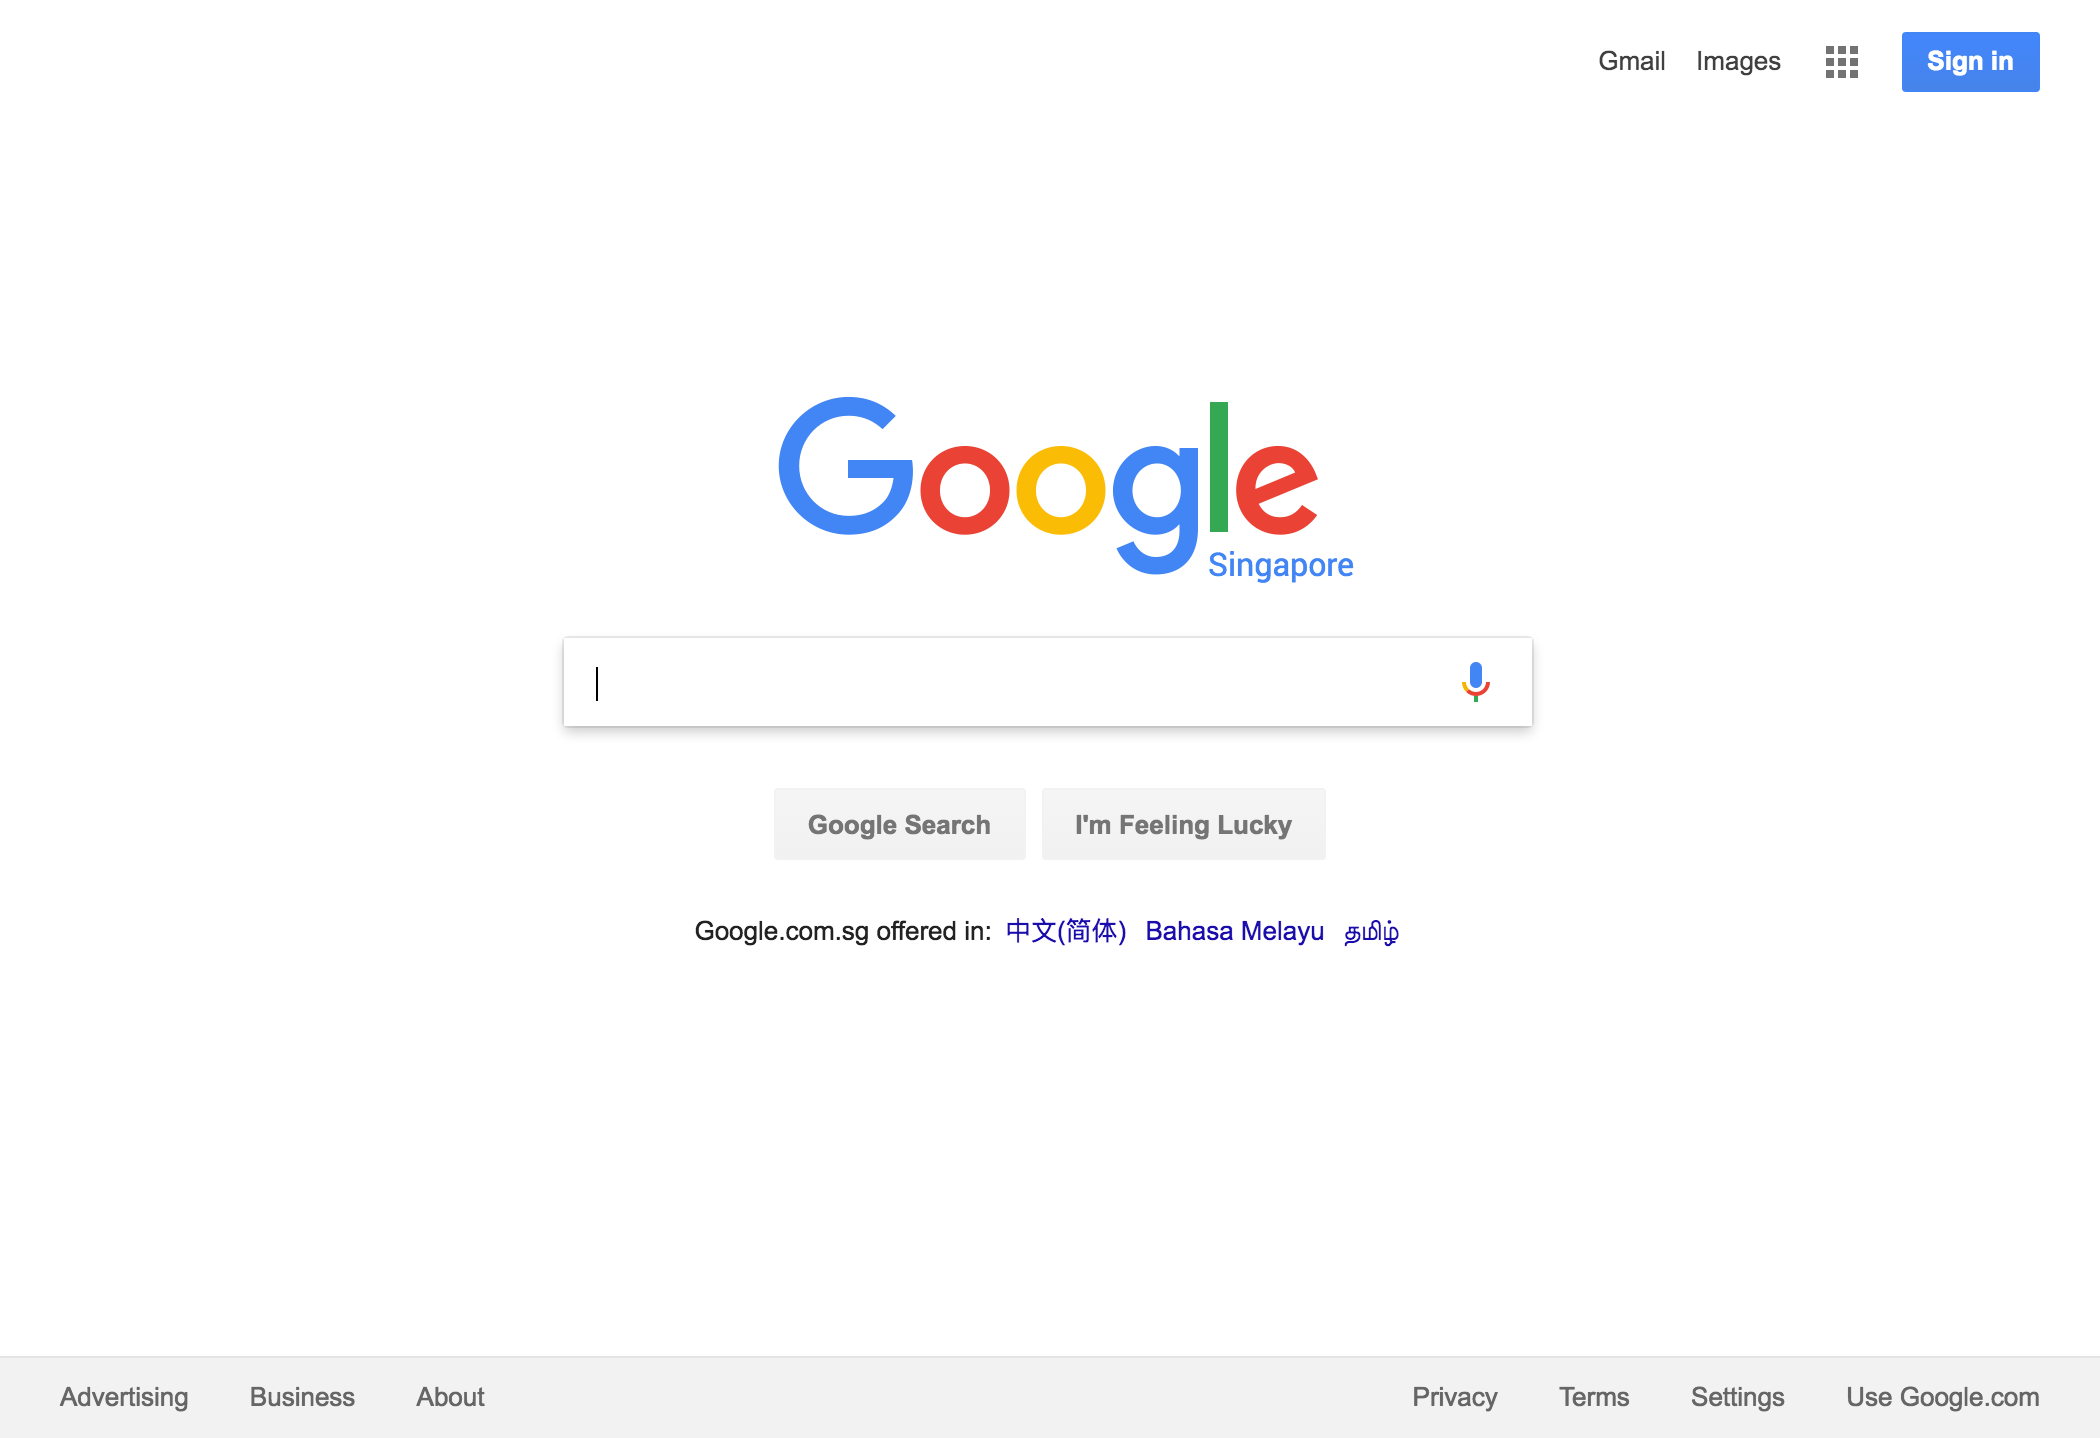
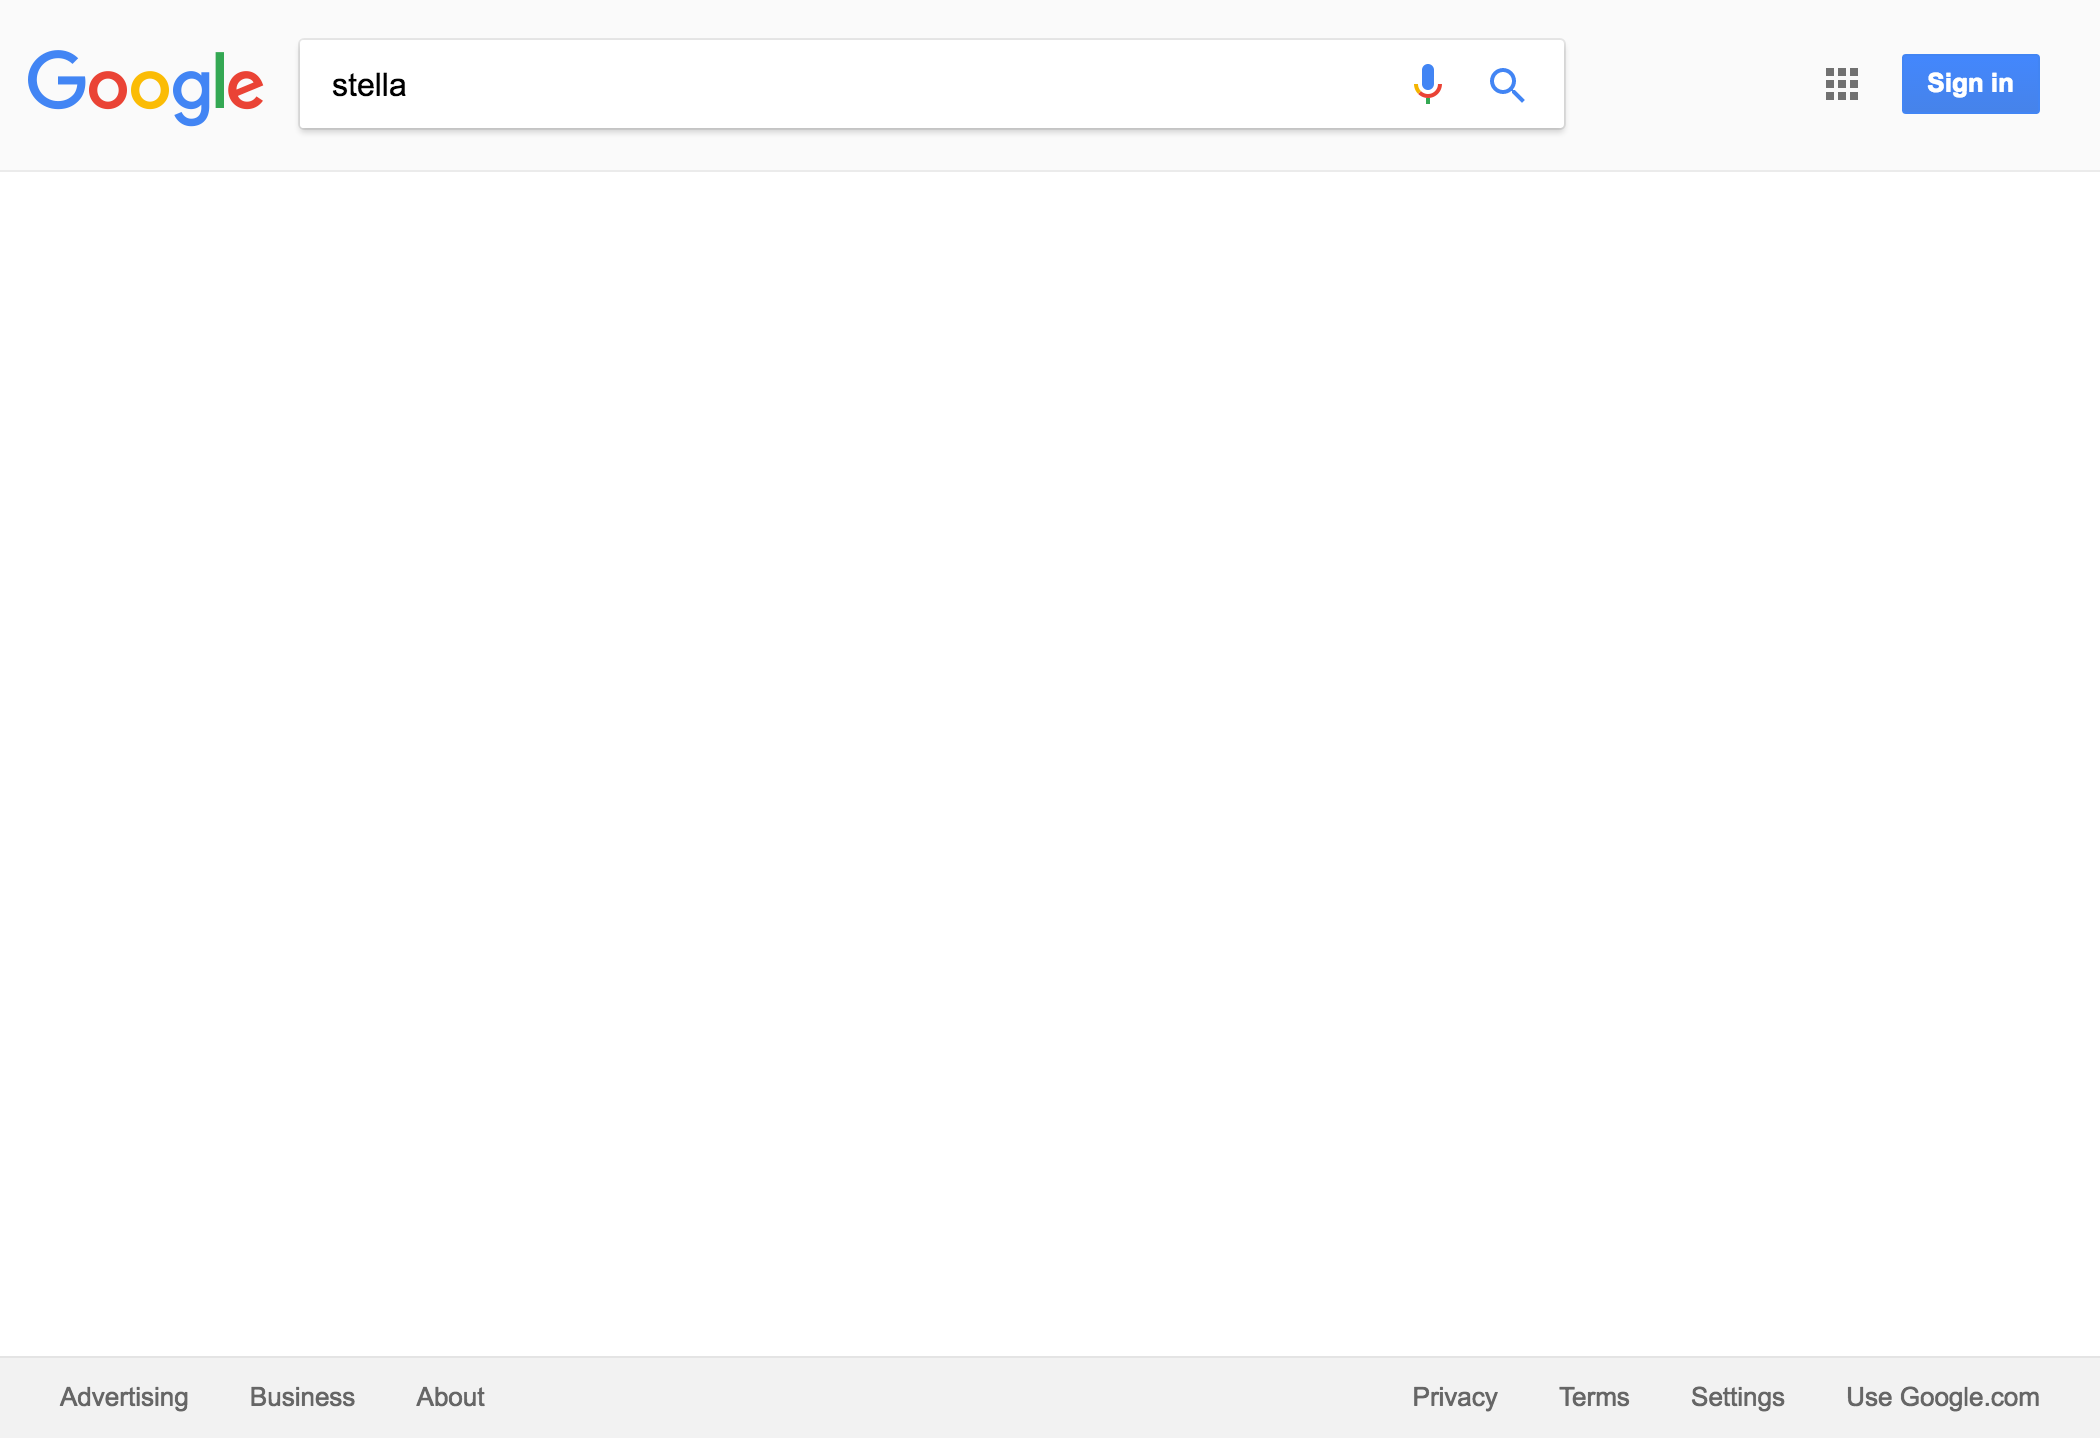
[UPDATE]Inserting word into google input box

diff --git a/index.js b/index.js
@@ -5,7 +5,8 @@ var driver = new webdriver.Builder().forBrowser('chrome').build();
 
 driver.manage().window().maximize();
 driver.get('http://www.google.com');
-// driver.findElement({name:'q'}).sendKeys("stella");
+driver.findElement({name:'q'}).sendKeys("stella");
+driver.findElement({name:'q'}).sendKeys(webdriver.Key.ENTER);
 
 driver.takeScreenshot().then(function(data){
     fs.writeFileSync('img.png', data, 'base64');
